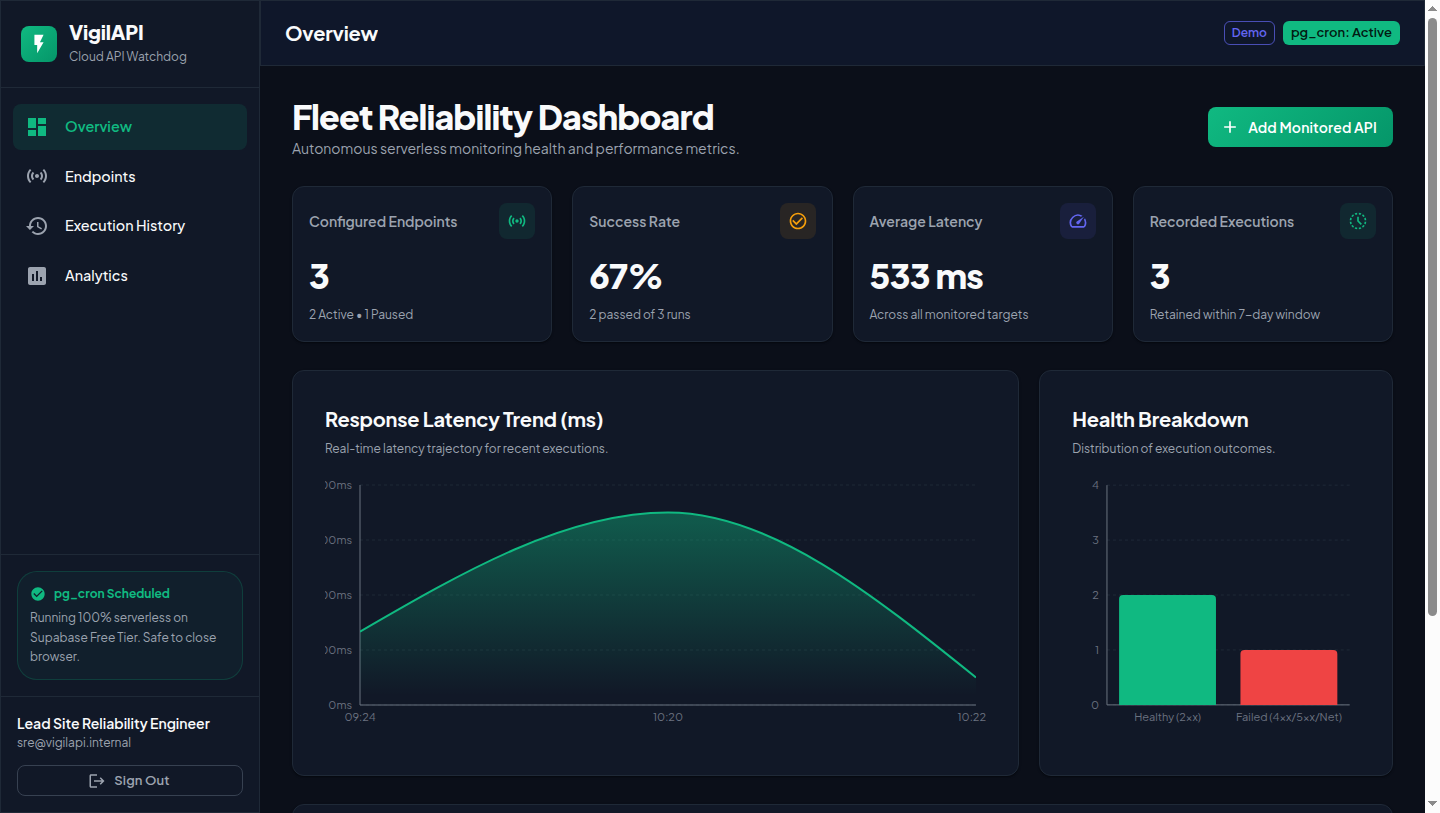
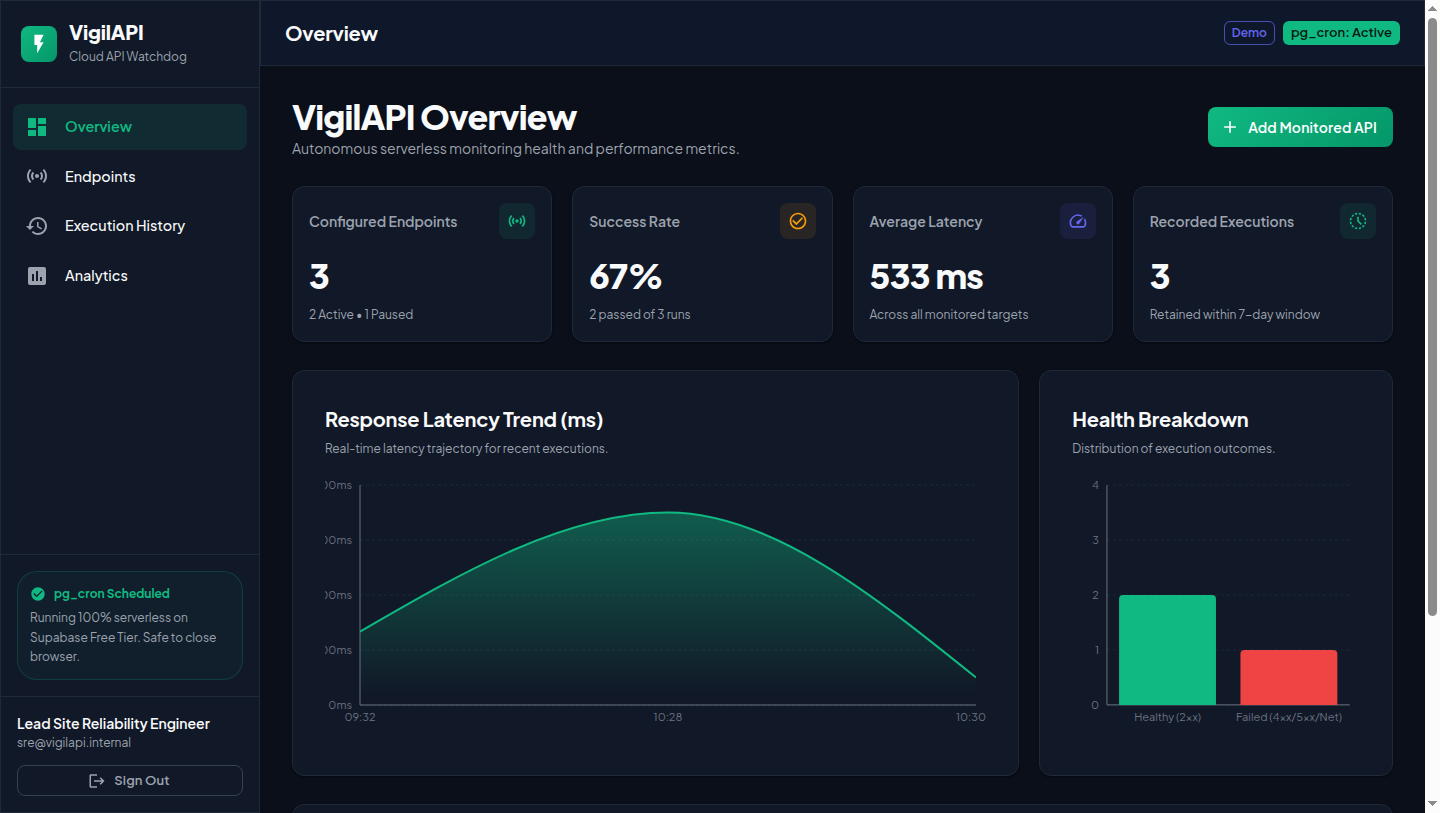
feat(dashboard): rename header to VigilAPI Overview and update screenshot in README

Changed region(s): [[0.1875, 0.123, 0.5, 0.1845], [0.6562, 0.861, 0.6875, 0.8918]]

diff --git a/src/features/dashboard/DashboardOverviewPage.tsx b/src/features/dashboard/DashboardOverviewPage.tsx
@@ -107,7 +107,7 @@ export const DashboardOverviewPage: React.FC = () => {
             variant="h4"
             sx={{ fontWeight: 800, fontSize: { xs: '1.5rem', sm: '1.85rem', md: '2.125rem' } }}
           >
-            Fleet Reliability Dashboard
+            VigilAPI Overview
           </Typography>
           <Typography variant="body2" color="text.secondary">
             Autonomous serverless monitoring health and performance metrics.

diff --git a/README.md b/README.md
@@ -13,7 +13,7 @@ VigilAPI is a production-minded, multi-tenant HTTP endpoint health monitoring we
 It runs scheduled HTTP health checks **100% independently of client sessions**. Users can close their browser, log out, or shut down their computer without interrupting monitoring schedules.
 
 <p align="center">
-  <img src="docs/images/dashboard-overview.png" alt="VigilAPI Production Fleet Dashboard" width="100%" />
+  <img src="docs/images/dashboard-overview.png" alt="VigilAPI Overview Dashboard" width="100%" />
 </p>
 
 ---
